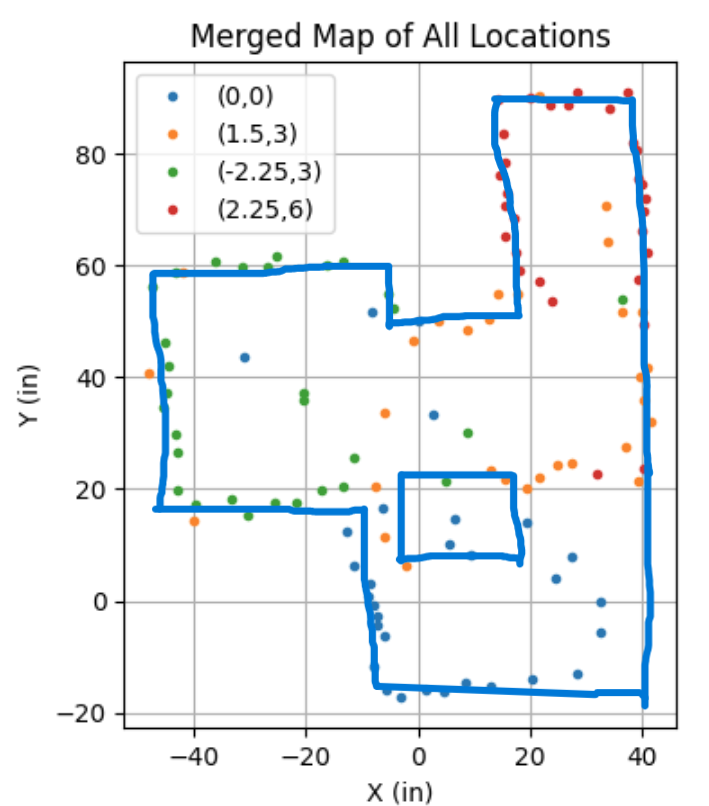
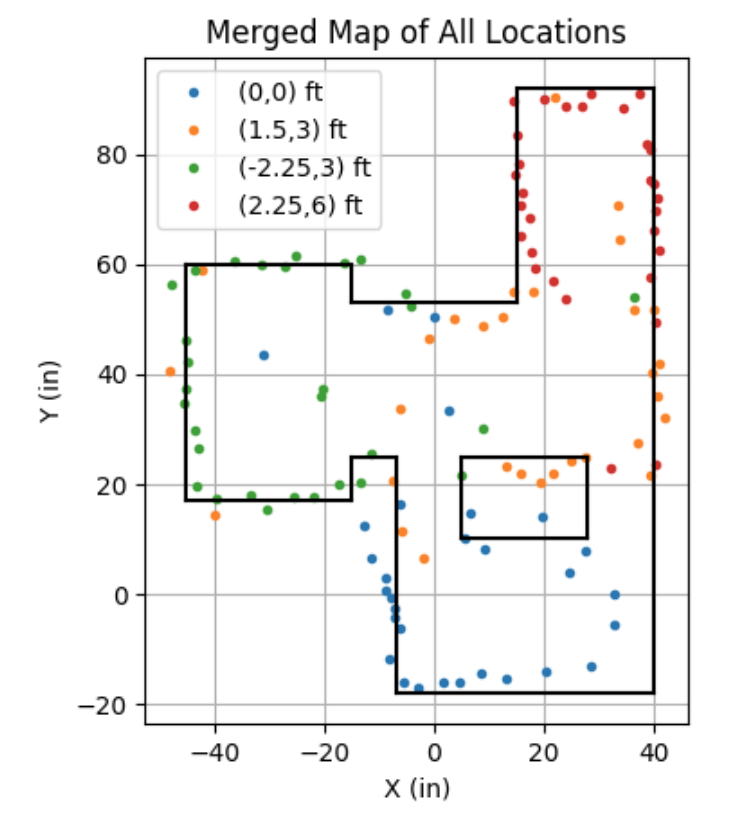
lab9 6

Changed region(s): [[0.031, 0.0, 0.9619, 1.0]]

diff --git a/Labs/lab09.html b/Labs/lab09.html
@@ -391,16 +391,28 @@ def postProcess(df, x0, y0):
                   or noisy distance measurements. The goal was not to preserve every single point, but instead to capture the actual room geometry well enough
                   for future localization tasks.
                 </p>
-                <p class="text-muted mb-0">
-                  Add your final line-map image and the corresponding endpoint lists here.
-                </p>
-
+                
                 <div class="bg-light rounded-4 p-3 mt-4 mb-0">
                   <h5 class="small fw-semibold mb-2">Example Endpoint Format</h5>
-                  <pre class="mb-0 small"><code>x_start = [ ]
-y_start = [ ]
-x_end   = [ ]
-y_end   = [ ]</code></pre>
+                  <pre class="mb-0 small"><code>lines = [
+    ((-45,60),(-15,60)),
+    ((-15,60),(-15,53)),
+    ((-15,53),(15,53)),
+    ((15,53),(15,92)),
+    ((15,92),(40,92)),
+    ((40,92),(40,-18)),
+    ((40,-18),(-7,-18)),
+    ((-7,-18),(-7,25)),
+    ((-7,25),(-15,25)),
+    ((-15,25),(-15,17)),
+    ((-15,17),(-45,17)),
+    ((-45,17),(-45,60)),
+    #inside box
+    ((5,25),(28,25)),
+    ((28,25),(28,10)),
+    ((28,10),(5,10)),
+    ((5,10),(5,25))
+]</code></pre>
                 </div>
               </div>
             </div>
@@ -437,9 +449,7 @@ y_end   = [ ]</code></pre>
             <h2 class="fw-bolder mb-4">10. Media</h2>
             <div class="card border-0 shadow-sm rounded-4">
               <div class="card-body p-4">
-                <p class="text-muted mb-3">
-                  Add your mapping video here showing the robot turning in place, stopping, and collecting measurements.
-                </p>
+                
 
                 <div class="row g-4">
                   <div class="col-lg-5">
@@ -452,6 +462,20 @@ y_end   = [ ]</code></pre>
                     </div>
                   </div>
                 </div>
+              </div>
+            </div>
+          </section>
+          <section class="mb-5">
+            <h2 class="fw-bolder mb-4">11. Acknowledgments</h2>
+            <div class="card border-0 shadow-sm rounded-4">
+              <div class="card-body p-4">
+                <p class="text-muted mb-3">
+                  For the completion of this lab, I used Ethan Sarpongs 2025 page to reference the stucture of the 
+                  python code and the way to plot the data. I also used ChatGPT for code clarification, debugging, and 
+                  to help develop this page of the webside.
+                </p>
+
+                
               </div>
             </div>
           </section>
